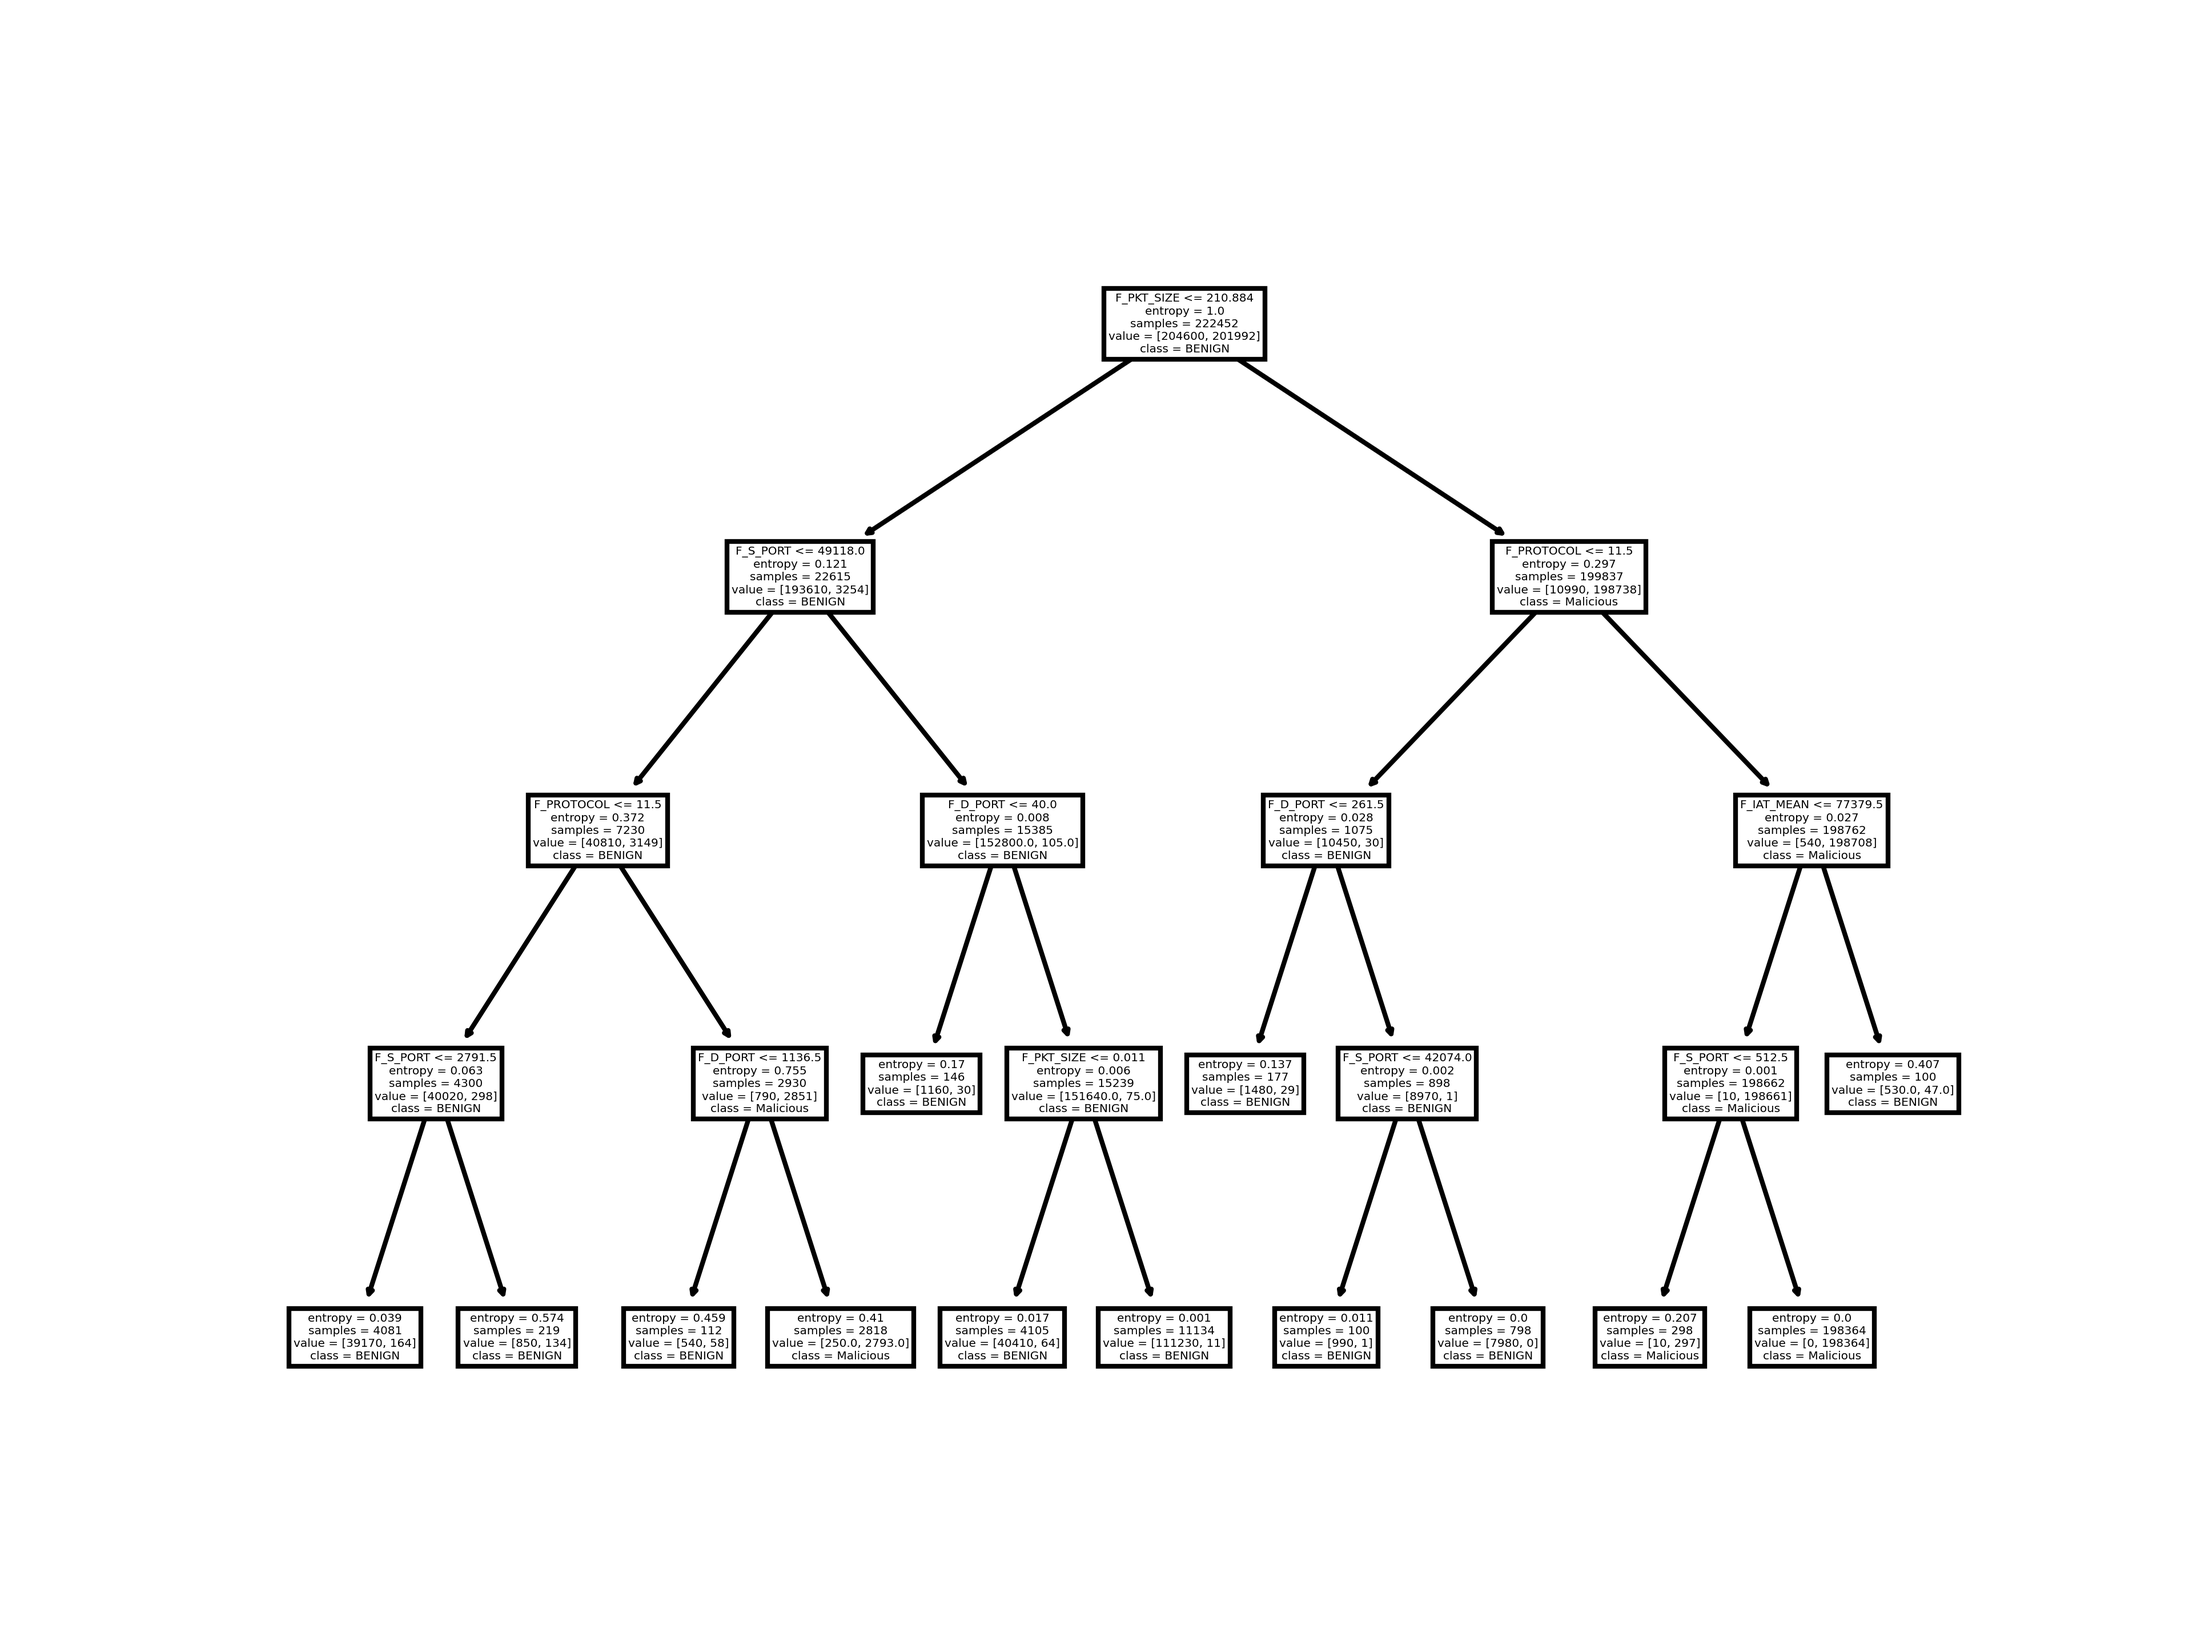
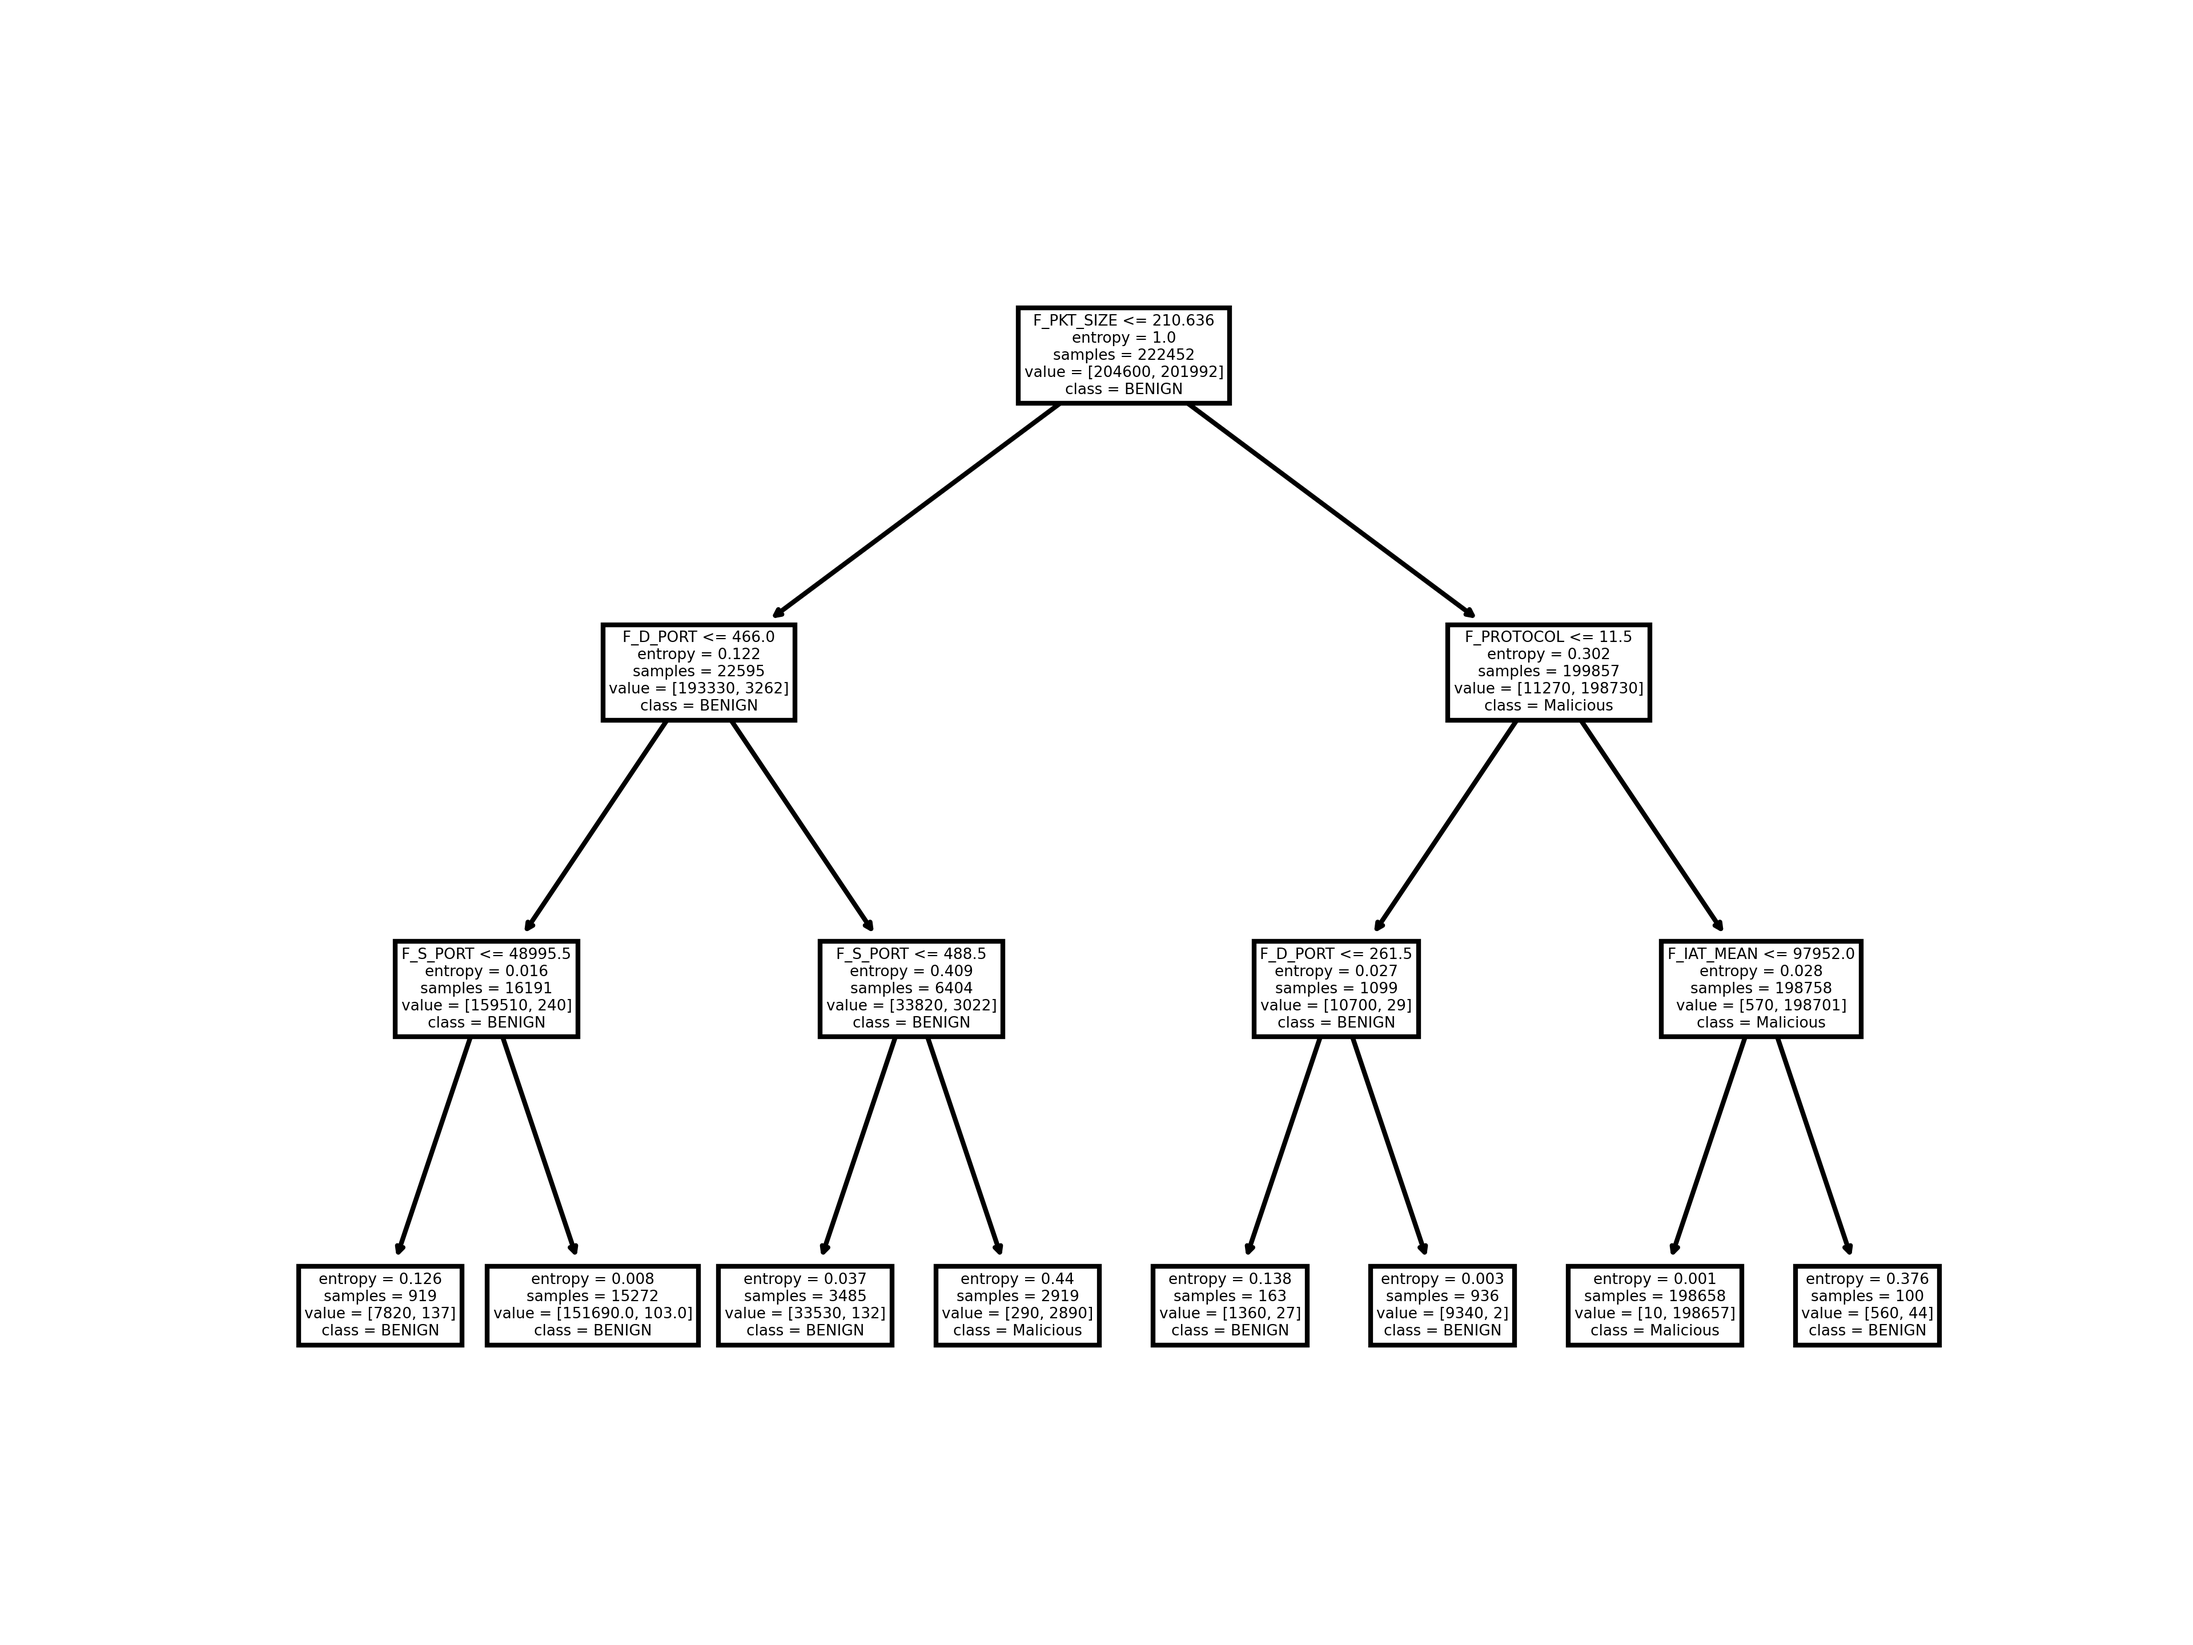
new parameters

diff --git a/ML/DT/main.py b/ML/DT/main.py
@@ -276,7 +276,7 @@ def DT_export_c_header_and_update_sh(clf: DecisionTreeClassifier, max_depth: int
     with open(out_path+"dt_features.h", "w") as f:
         f.write("// Auto-generated by main.py.\n")
         f.write("// Include this file in dt_xdp.xdp.c to load the feature vector descriptor.\n\n")
-        f.write(f"#define DT_NODE_NB {max_nodes+1}\n\n")
+        f.write(f"#define DT_NODE_NB {max_nodes}\n\n")
         f.write(f"#define FEATURE_NB {len(FEATURE_NAMES)}\n")
         f.write("#define FEATURES (")
         for i in range(len(FEATURE_NAMES)):
@@ -312,6 +312,7 @@ def write_update_params_sh(nodes: list, out_path: str):
  
     sh_path = out_path + "update_params.sh"
     with open(sh_path, "w") as f:
+        #auto generation information
         f.write("#!/usr/bin/env bash\n")
         f.write("# Auto-generated by main.py.\n")
         f.write("# Loads decision-tree nodes into a BPF map via bpftool.\n")
@@ -320,18 +321,49 @@ def write_update_params_sh(nodes: list, out_path: str):
         f.write("#\n")
         f.write("# Map value layout (4 bytes, little-endian):\n")
         f.write("#   bytes 0-3 : node value (__u32 LE)\n\n")
- 
+
+        #assert map_id is given by the user
         f.write('if [ -z "$1" ]; then\n')
         f.write('    echo "Usage: sudo $0 <map_id>"\n')
         f.write('    exit 1\n')
         f.write('fi\n\n')
- 
-        f.write('MAP_ID="$1"\n\n')
- 
-        for i, node_value in enumerate(nodes):
-            key_hex = u32_to_hex_le(i)
-            value_hex = u32_to_hex_le(node_value)
 
+        #writing the raw hex data as lists (for easier reading of script)
+        f.write('MAP_ID="$1"\n')
+        f.write(f'NODE_NB={len(nodes)}\n\n')
+        f.write('KEYS_MAP0=(\n')
+        for i in range(len(nodes)):
+            key_hex = u32_to_hex_le(i + 1)
+            f.write(f'    "{key_hex}"\n')
+        f.write(')\n\n')
+        f.write('KEYS_MAP1=(\n')
+        for i in range(len(nodes)):
+            key_hex = u32_to_hex_le(len(nodes) + 1 + i)
+            f.write(f'    "{key_hex}"\n')
+        f.write(')\n\n')
+        f.write('read_current_map() {\n')
+        f.write('    local out raw\n')
+        f.write('    out=$(bpftool map lookup id "$MAP_ID" key hex 00 00 00 00 2>/dev/null) || return 1\n\n')
+        f.write('    raw=$(printf "%s" "$out" | grep -oE \'"value"[[:space:]]*:[[:space:]]*[0-9]+\' | tail -n1 | sed -E \'s/.*:[[:space:]]*([0-9]+).*/\\1/\')\n')
+        f.write('    if [ -z "$raw" ]; then\n')
+        f.write('        raw=$(printf "%s" "$out" | grep -oE "([0-9A-Fa-f]{2} ){3}[0-9A-Fa-f]{2}" | tail -n1)\n')
+        f.write('        if [ -z "$raw" ]; then return 2; fi\n')
+        f.write('        if [ "$raw" = "00 00 00 00" ]; then\n')
+        f.write('            printf "0"\n')
+        f.write('        else\n')
+        f.write('            printf "1"\n')
+        f.write('        fi\n')
+        f.write('        return 0\n')
+        f.write('    fi\n\n')
+        f.write('    printf "%s" "$raw"\n')
+        f.write('}\n\n')
+        f.write('VALUES=(\n')
+        for node_value in nodes:
+            value_hex = u32_to_hex_le(node_value)
+            f.write(f'    "{value_hex}"\n')
+        f.write(')\n\n')
+        f.write('COMMENTS=(\n')
+        for i, node_value in enumerate(nodes):
             if node_value == 0:
                 comment = f"node {i}: leaf / undefined"
             else:
@@ -340,14 +372,37 @@ def write_update_params_sh(nodes: list, out_path: str):
                 feat_idx = (node_value >> 2) & 0x3F
                 threshold = (node_value >> 8) & 0x00FFFFFF
                 comment = f"node {i}: feat_id={feat_idx} thresh={threshold} pass_left={pass_left} pass_right={pass_right}"
-
-            f.write(f"# {comment}\n")
-            f.write(
-                f'bpftool map update id "$MAP_ID" '
-                f'key hex {key_hex} '
-                f'value hex {value_hex}\n\n'
-            )
- 
+            f.write(f'    "{comment}"\n')
+        f.write(')\n\n')
+        f.write('raw_used=$(read_current_map)\n')
+        f.write('if [ $? -ne 0 ]; then\n')
+        f.write('    echo "Warning: failed to read current map selection from key 0; defaulting to map 0"\n')
+        f.write('    raw_used=0\n')
+        f.write('fi\n\n')
+        f.write('USED_MAP=$raw_used\n')
+        f.write('echo "current DT map in use : $USED_MAP"\n\n')
+        f.write('if [ "$USED_MAP" -eq 1 ]; then\n')
+        f.write('    KEYS=("${KEYS_MAP0[@]}")\n')
+        f.write('    TARGET_MAP=0\n')
+        f.write('else\n')
+        f.write('    KEYS=("${KEYS_MAP1[@]}")\n')
+        f.write('    TARGET_MAP=1\n')
+        f.write('fi\n\n')
+        f.write('echo "filling DT map $TARGET_MAP"\n\n')
+        f.write('for i in $(seq 0 $((NODE_NB - 1))); do\n')
+        f.write('    IFS=" " read -r k0 k1 k2 k3 <<< "${KEYS[i]}"\n')
+        f.write('    IFS=" " read -r v0 v1 v2 v3 <<< "${VALUES[i]}"\n')
+        f.write('    echo "# ${COMMENTS[i]}"\n')
+        f.write('    bpftool map update id "$MAP_ID" key hex "$k0" "$k1" "$k2" "$k3" value hex "$v0" "$v1" "$v2" "$v3"\n')
+        f.write('    echo\n')
+        f.write('done\n\n')
+        f.write('if [ "$TARGET_MAP" -eq 0 ]; then\n')
+        f.write('    echo "# switch active DT map selector to map 0"\n')
+        f.write('    bpftool map update id "$MAP_ID" key hex 00 00 00 00 value hex 00 00 00 00\n')
+        f.write('else\n')
+        f.write('    echo "# switch active DT map selector to map 1"\n')
+        f.write('    bpftool map update id "$MAP_ID" key hex 00 00 00 00 value hex 01 00 00 00\n')
+        f.write('fi\n\n')
         f.write('echo "Done loading $MAP_ID nodes."\n')
  
     import os

diff --git a/ML/DT/dt_params.h b/ML/DT/dt_params.h
@@ -1,32 +1,29 @@
 // Auto-generated by main.py.
 // Include this file in dt_xdp.usr.c to load the decision tree.
 
-#define DT_NODE_NB 15
+#ifndef DT_PARAMS_H
+#define DT_PARAMS_H
+
+#define DT_NODE_NB 8
 
 static __u32 trained_dt_nodes[] = {
     0x0000D20E,  // [0] feat_id=3 thresh=210 pass_left=1 pass_right=0
-    0x00BFDE03,  // [1] feat_id=0 thresh=49118 pass_left=1 pass_right=1
+    0x0001D207,  // [1] feat_id=1 thresh=466 pass_left=1 pass_right=1
     0x00000B0A,  // [2] feat_id=2 thresh=11 pass_left=1 pass_right=0
-    0x00000B0A,  // [3] feat_id=2 thresh=11 pass_left=1 pass_right=0
-    0x00002807,  // [4] feat_id=1 thresh=40 pass_left=1 pass_right=1
+    0x00BF6303,  // [3] feat_id=0 thresh=48995 pass_left=1 pass_right=1
+    0x0001E802,  // [4] feat_id=0 thresh=488 pass_left=1 pass_right=0
     0x00010507,  // [5] feat_id=1 thresh=261 pass_left=1 pass_right=1
-    0x012E4311,  // [6] feat_id=4 thresh=77379 pass_left=0 pass_right=1
-    0x000AE703,  // [7] feat_id=0 thresh=2791 pass_left=1 pass_right=1
-    0x00047006,  // [8] feat_id=1 thresh=1136 pass_left=1 pass_right=0
-    0x00000000,  // [9] leaf / undef
-    0x0000000F,  // [10] feat_id=3 thresh=0 pass_left=1 pass_right=1
-    0x00000000,  // [11] leaf / undef
-    0x00A45A03,  // [12] feat_id=0 thresh=42074 pass_left=1 pass_right=1
-    0x00020000,  // [13] feat_id=0 thresh=512 pass_left=0 pass_right=0
-    0x00000000,  // [14] leaf / undef
+    0x017EA011,  // [6] feat_id=4 thresh=97952 pass_left=0 pass_right=1
 };
+
 /*
               precision    recall  f1-score   support
 
-      BENIGN       0.97      1.00      0.99      5115
+      BENIGN       0.98      1.00      0.99      5115
    MALICIOUS       1.00      1.00      1.00     50498
 
     accuracy                           1.00     55613
    macro avg       0.99      1.00      0.99     55613
 weighted avg       1.00      1.00      1.00     55613
 */
+#endif /* DT_PARAMS_H */

diff --git a/ML/DT/dt_features.h b/ML/DT/dt_features.h
@@ -1,6 +1,7 @@
 // Auto-generated by main.py.
 // Include this file in dt_xdp.xdp.c to load the feature vector descriptor.
 
+#define DT_NODE_NB 8
+
 #define FEATURE_NB 6
 #define FEATURES (F_S_PORT|F_D_PORT|F_PROTOCOL|F_PKT_SIZE|F_IAT_MEAN|F_IAT)
-#define DT_NODE_NB 15
